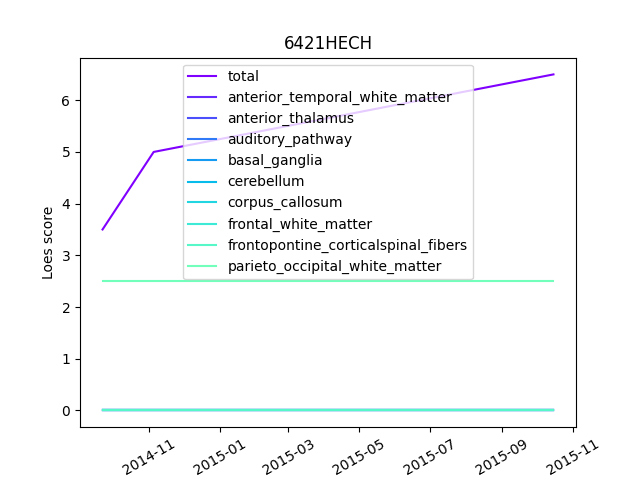
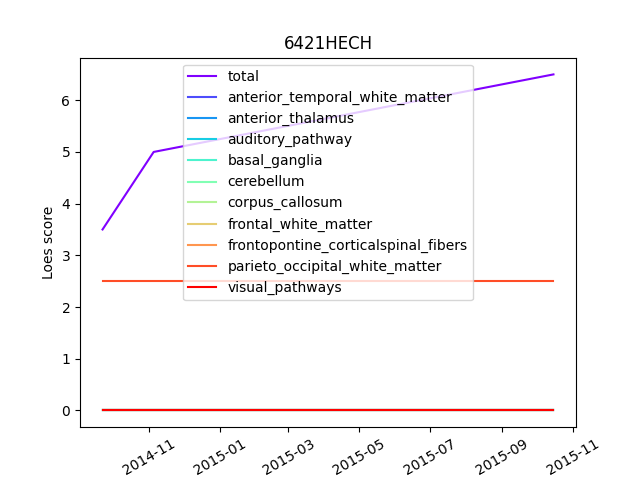
Did EDA work.

diff --git a/src/dcan/eda/explore_partial_scores.py b/src/dcan/eda/explore_partial_scores.py
@@ -1,0 +1,90 @@
+import os.path
+from datetime import datetime
+import matplotlib as mpl
+from matplotlib.colors import ListedColormap, LinearSegmentedColormap
+import matplotlib.pyplot as plt
+import matplotlib.cm
+import numpy as np
+
+from dcan.data.partial_loes_scores import get_partial_loes_scores
+
+fig, axs = plt.subplots(4, 6)
+fig.suptitle('Loes score progression')
+scores_list = []
+loes_scoring_folder = '/home/miran045/reine097/projects/loes-scoring-2/data'
+partial_scores_file_path = os.path.join(loes_scoring_folder, '9_7 MRI sessions Igor Loes score updated.csv')
+partial_loes_scores = get_partial_loes_scores(partial_scores_file_path)
+doc_folder = '/home/miran045/reine097/projects/loes-scoring-2/doc'
+n = 11
+colors = plt.cm.rainbow(np.linspace(0, 1, n))
+with open(os.path.join(doc_folder, 'LoesScoreProgression.md'), 'w') as the_file:
+    for subject in partial_loes_scores:
+        subject_scores = []
+        print(subject)
+        subject_data = partial_loes_scores[subject]
+        t = []
+        scores = []
+        anterior_temporal_white_matter_scores = []
+        anterior_thalamus_scores = []
+        auditory_pathway_scores = []
+        basal_ganglia_scores = []
+        cerebellum_scores = []
+        corpus_callosum_scores = []
+        frontal_white_matter_scores = []
+        frontopontine_corticalspinal_fibers_scores = []
+        parieto_occipital_white_matter_scores = []
+        visual_pathways_scores = []
+        for session in subject_data:
+            parts = session.split('_')
+            session_date_str = parts[1]
+            datetime_object = datetime.strptime(session_date_str, '%Y%m%d')
+            t.append(datetime_object)
+            session_data = subject_data[session]
+            loes_score = session_data.loes_score
+            anterior_temporal_white_matter_score = session_data.anterior_temporal_white_matter.get_score()
+            anterior_temporal_white_matter_scores.append(anterior_temporal_white_matter_score)
+            anterior_thalamus_score = session_data.anterior_thalamus
+            anterior_thalamus_scores.append(anterior_thalamus_score)
+            auditory_pathway_score = session_data.auditory_pathway.get_score()
+            auditory_pathway_scores.append(auditory_pathway_score)
+            basal_ganglia_score = session_data.basal_ganglia
+            basal_ganglia_scores.append(basal_ganglia_score)
+            cerebellum_score = session_data.cerebellum
+            cerebellum_scores.append(cerebellum_score)
+            corpus_callosum_score = session_data.corpus_callosum.get_score()
+            corpus_callosum_scores.append(corpus_callosum_score)
+            frontal_white_matter_score = session_data.frontal_white_matter.get_score()
+            frontal_white_matter_scores.append(frontal_white_matter_score)
+            frontopontine_corticalspinal_fibers_score = session_data.frontopontine_and_corticopsinal_fibers.get_score()
+            frontopontine_corticalspinal_fibers_scores.append(frontopontine_corticalspinal_fibers_score)
+            parieto_occipital_white_matter_score = session_data.parieto_occipital_white_matter.get_score()
+            parieto_occipital_white_matter_scores.append(parieto_occipital_white_matter_score)
+            visual_pathways_score = session_data.visual_pathways.get_score()
+            visual_pathways_scores.append(visual_pathways_score)
+            sum_sub_scores = anterior_temporal_white_matter_score + anterior_thalamus_score + auditory_pathway_score + basal_ganglia_score + cerebellum_score + corpus_callosum_score + frontal_white_matter_score + frontopontine_corticalspinal_fibers_score + parieto_occipital_white_matter_score + visual_pathways_score
+            # assert abs(sum_sub_scores - loes_score) < 0.1
+            scores.append(loes_score)
+            print(f'\t{datetime_object}: {loes_score}')
+            subject_scores.append((datetime_object.timestamp(), loes_score))
+        scores_list.append(subject_scores)
+        fig, ax = plt.subplots()
+        ax.plot(t, scores, color=colors[0], label='total')
+        ax.plot(t, anterior_temporal_white_matter_scores, color=colors[1], label='anterior_temporal_white_matter')
+        ax.plot(t, anterior_thalamus_scores, color=colors[2], label='anterior_thalamus')
+        ax.plot(t, anterior_thalamus_scores, color=colors[3], label='auditory_pathway')
+        ax.plot(t, basal_ganglia_scores, color=colors[4], label='basal_ganglia')
+        ax.plot(t, basal_ganglia_scores, color=colors[5], label='cerebellum')
+        ax.plot(t, basal_ganglia_scores, color=colors[6], label='corpus_callosum')
+        ax.plot(t, frontal_white_matter_scores, color=colors[7], label='frontal_white_matter')
+        ax.plot(t, frontopontine_corticalspinal_fibers_scores, color=colors[8], label='frontopontine_corticalspinal_fibers')
+        ax.plot(t, parieto_occipital_white_matter_scores, color=colors[9], label='parieto_occipital_white_matter')
+        ax.plot(t, visual_pathways_scores, color=colors[10], label='visual_pathways')
+        ax.set_title(subject)
+        plt.xlabel('Session date')
+        plt.xticks(rotation=30)
+        plt.ylabel('Loes score')
+        plt.legend()
+        image_name = f'{subject}.png'
+        the_file.write(f'![](./img/{image_name})\n\n')
+        plt.savefig(os.path.join(doc_folder, 'img', image_name))
+print(scores_list)

diff --git a/src/dcan/data/partial_loes_scores.py b/src/dcan/data/partial_loes_scores.py
@@ -1,0 +1,67 @@
+import csv
+from datetime import datetime
+
+from dcan.data.AnteriorTemporalWhiteMatter import AnteriorTemporalWhiteMatter
+from dcan.data.AuditoryPathway import AuditoryPathway
+from dcan.data.CorpusCallosum import CorpusCallosum
+from dcan.data.FrontalWhiteMatter import FrontalWhiteMatter
+from dcan.data.Frontopontine_And_Corticopsinal_Fibers import Frontopontine_And_Corticopsinal_Fibers
+from dcan.data.LoesScore import LoesScore
+from dcan.data.ParietoOccipitalWhiteMatter import ParietoOccipitalWhiteMatter
+from dcan.data.VisualPathways import VisualPathways
+
+
+def get_partial_loes_scores(file_path):
+    loes_scores = dict()
+    with open(file_path) as csvfile:
+        csv_reader = csv.reader(csvfile)
+        next(csv_reader)
+        next(csv_reader)
+        for row in csv_reader:
+            sub_id = row[0]
+            sub_session = row[1]
+            date_time_str = row[2]
+            date_of_mri = datetime.strptime(date_time_str, '%m/%d/%Y')
+            parieto_occipital_white_matter = \
+                ParietoOccipitalWhiteMatter(
+                    periventricular=float(row[3]), central=int(row[4]), subcortical=float(row[5]), atrophy=int(row[6]))
+            anterior_temporal_white_matter = \
+                AnteriorTemporalWhiteMatter(
+                    periventricular=float(row[7]), central=float(row[8]), subcortical=float(row[9]),
+                    atrophy=int(row[10]))
+            frontal_white_matter = \
+                FrontalWhiteMatter(
+                    periventricular=float(row[11]), central=int(row[12]), subcortical=float(row[13]),
+                    atrophy=float(row[14]))
+            corpus_callosum = \
+                CorpusCallosum(splenium=int(row[15]), body=int(row[16]), genu=int(row[17]), atrophy=int(row[18]))
+            visual_pathways = \
+                VisualPathways(
+                    optic_radiation=int(row[19]), meyers_loop=int(row[20]), lateral_geniculate_body=int(row[21]),
+                    optic_tract=int(row[22]))
+            auditory_pathway = \
+                AuditoryPathway(
+                    medial_geniculate=float(row[23]), brachium_to_inferior_colliculus=float(row[24]),
+                    lateral_leminiscus=float(row[25]), trapezoid_body_pons=float(row[26]))
+            frontopontine_and_corticopsinal_fibers = \
+                Frontopontine_And_Corticopsinal_Fibers(internal_capsule=float(row[27]), brain_stem=float(row[28]))
+            cerebellum = int(row[29])
+            white_matter_cerebellum_atrophy = int(row[30])
+            basal_ganglia = int(row[31])
+            anterior_thalamus = int(row[32])
+            global_atrophy = int(row[33])
+            brainstem_atrophy = int(row[34])
+            loes_score = float(row[35])
+            retricted_diffusion_present_on_mri = True if row[36] == 'Yes' else False
+            gad_str = row[37]
+            gad = 0.0 if gad_str == '' else float(gad_str)
+            loes_score_obj = \
+                LoesScore(sub_id, sub_session, date_of_mri, parieto_occipital_white_matter,
+                          anterior_temporal_white_matter, frontal_white_matter, corpus_callosum, visual_pathways,
+                          auditory_pathway, frontopontine_and_corticopsinal_fibers, cerebellum,
+                          white_matter_cerebellum_atrophy, basal_ganglia, anterior_thalamus, global_atrophy,
+                          brainstem_atrophy, loes_score, retricted_diffusion_present_on_mri, gad)
+            if sub_id not in loes_scores:
+                loes_scores[sub_id] = dict()
+            loes_scores[sub_id][sub_session] = loes_score_obj
+    return loes_scores

diff --git a/src/dcan/data/LoesScore.py b/src/dcan/data/LoesScore.py
@@ -1,0 +1,25 @@
+class LoesScore:
+    def __init__(self, sub_id, sub_session, date_of_mri, parieto_occipital_white_matter, anterior_temporal_white_matter,
+                 frontal_white_matter, corpus_callosum, visual_pathways, auditory_pathway,
+                 frontopontine_and_corticopsinal_fibers, cerebellum, white_matter_cerebellum_atrophy, basal_ganglia,
+                 anterior_thalamus, global_atrophy, brainstem_atrophy, loes_score, retricted_diffusion_present_on_mri,
+                 gad):
+        self.sub_id = sub_id
+        self.sub_session = sub_session
+        self.date_of_mri = date_of_mri
+        self.parieto_occipital_white_matter = parieto_occipital_white_matter
+        self.anterior_temporal_white_matter = anterior_temporal_white_matter
+        self.frontal_white_matter = frontal_white_matter
+        self.corpus_callosum = corpus_callosum
+        self.visual_pathways = visual_pathways
+        self.auditory_pathway = auditory_pathway
+        self.frontopontine_and_corticopsinal_fibers = frontopontine_and_corticopsinal_fibers
+        self.cerebellum = cerebellum
+        self.white_matter_cerebellum_atrophy = white_matter_cerebellum_atrophy
+        self.basal_ganglia = basal_ganglia
+        self.anterior_thalamus = anterior_thalamus
+        self.global_atrophy = global_atrophy
+        self.brainstem_atrophy = brainstem_atrophy
+        self.loes_score = loes_score
+        self.retricted_diffusion_present_on_mri = retricted_diffusion_present_on_mri
+        self.gad = gad

diff --git a/src/dcan/eda/partial_loes_scores.py b/src/dcan/eda/partial_loes_scores.py
@@ -1,0 +1,26 @@
+import os
+
+from dcan.data.partial_loes_scores import get_partial_loes_scores
+
+loes_scoring_folder = '/home/miran045/reine097/projects/AlexNet_Abrol2021/data/loes_scoring'
+partial_scores_file_path = os.path.join(loes_scoring_folder, '9_7 MRI sessions Igor Loes score updated.csv')
+partial_loes_scores = get_partial_loes_scores(partial_scores_file_path)
+
+def get_items(test_dict, lvl):
+    # querying for lowest level
+    if lvl == 0:
+        yield from ((key, val) for key, val in test_dict.items()
+                    if not isinstance(val, dict))
+    else:
+        # recur for inner dictionaries
+        yield from ((key1, val1) for val in test_dict.values()
+                    if isinstance(val, dict) for key1, val1 in get_items(val, lvl - 1))
+
+# initializing K
+K = 1
+
+# calling function
+res = get_items(partial_loes_scores, K)
+# printing result
+for score in dict(res).values():
+    print(score.loes_score)

diff --git a/src/dcan/data/AuditoryPathway.py b/src/dcan/data/AuditoryPathway.py
@@ -1,0 +1,9 @@
+class AuditoryPathway:
+  def __init__(self, medial_geniculate, brachium_to_inferior_colliculus, lateral_leminiscus, trapezoid_body_pons):
+    self.medial_geniculate = medial_geniculate
+    self.brachium_to_inferior_colliculus = brachium_to_inferior_colliculus
+    self.lateral_leminiscus = lateral_leminiscus
+    self.trapezoid_body_pons = trapezoid_body_pons
+
+  def get_score(self):
+    return self.medial_geniculate + self.brachium_to_inferior_colliculus + self.lateral_leminiscus + self.trapezoid_body_pons

diff --git a/src/dcan/data/VisualPathways.py b/src/dcan/data/VisualPathways.py
@@ -1,0 +1,9 @@
+class VisualPathways:
+  def __init__(self, optic_radiation, meyers_loop, lateral_geniculate_body, optic_tract):
+    self.optic_radiation = optic_radiation
+    self.meyers_loop = meyers_loop
+    self.lateral_geniculate_body = lateral_geniculate_body
+    self.optic_tract = optic_tract
+
+  def get_score(self):
+    return self.optic_radiation + self.meyers_loop + self.lateral_geniculate_body + self.optic_tract

diff --git a/src/dcan/data/AnteriorTemporalWhiteMatter.py b/src/dcan/data/AnteriorTemporalWhiteMatter.py
@@ -1,0 +1,10 @@
+class AnteriorTemporalWhiteMatter:
+  def __init__(self, periventricular, central, subcortical, atrophy):
+    self.periventricular = periventricular
+    self.central = central
+    self.subcortical = subcortical
+    self.atrophy = atrophy
+
+  def get_score(self):
+    return self.periventricular + self.central + self.subcortical
+

diff --git a/src/dcan/data/ParietoOccipitalWhiteMatter.py b/src/dcan/data/ParietoOccipitalWhiteMatter.py
@@ -1,0 +1,9 @@
+class ParietoOccipitalWhiteMatter:
+  def __init__(self, periventricular, central, subcortical, atrophy):
+    self.periventricular = periventricular
+    self.central = central
+    self.subcortical = subcortical
+    self.atrophy = atrophy
+
+  def get_score(self):
+    return self.periventricular + self.central + self.subcortical

diff --git a/src/dcan/data/FrontalWhiteMatter.py b/src/dcan/data/FrontalWhiteMatter.py
@@ -1,0 +1,9 @@
+class FrontalWhiteMatter:
+  def __init__(self, periventricular, central, subcortical, atrophy):
+    self.periventricular = periventricular
+    self.central = central
+    self.subcortical = subcortical
+    self.atrophy = atrophy
+
+  def get_score(self):
+    return self.periventricular + self.central + self.subcortical

diff --git a/src/dcan/data/Frontopontine_And_Corticopsinal_Fibers.py b/src/dcan/data/Frontopontine_And_Corticopsinal_Fibers.py
@@ -1,0 +1,7 @@
+class Frontopontine_And_Corticopsinal_Fibers:
+  def __init__(self, internal_capsule, brain_stem):
+    self.internal_capsule = internal_capsule
+    self.brain_stem = brain_stem
+
+  def get_score(self):
+    return self.internal_capsule + self.brain_stem

diff --git a/src/dcan/data/CorpusCallosum.py b/src/dcan/data/CorpusCallosum.py
@@ -1,0 +1,9 @@
+class CorpusCallosum:
+  def __init__(self, splenium, body, genu, atrophy):
+    self.splenium = splenium
+    self.body = body
+    self.genu = genu
+    self.atrophy = atrophy
+
+  def get_score(self):
+    return self.splenium + self.body + self.genu
